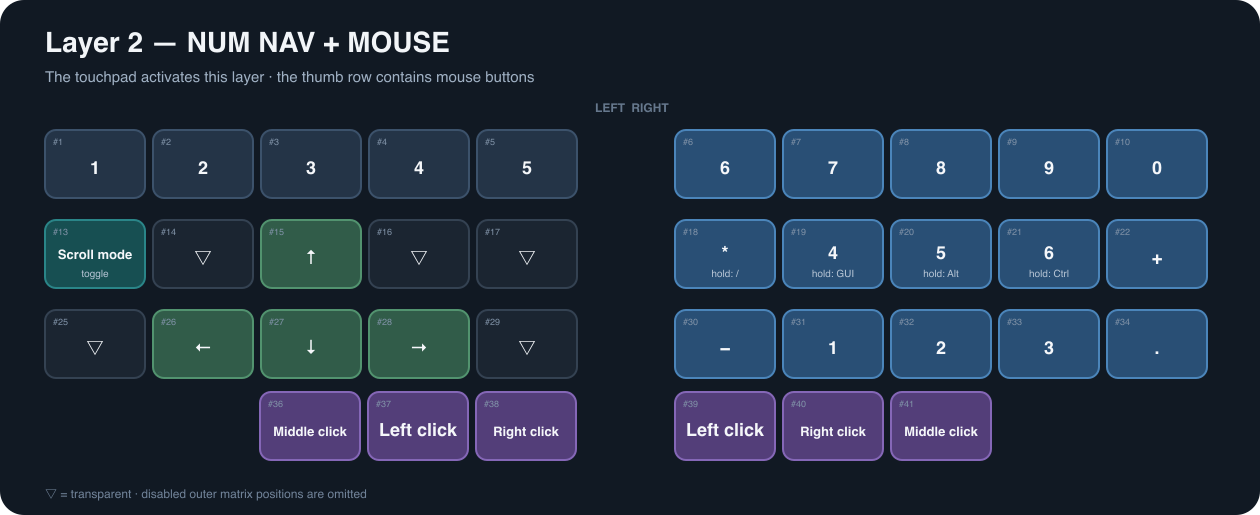
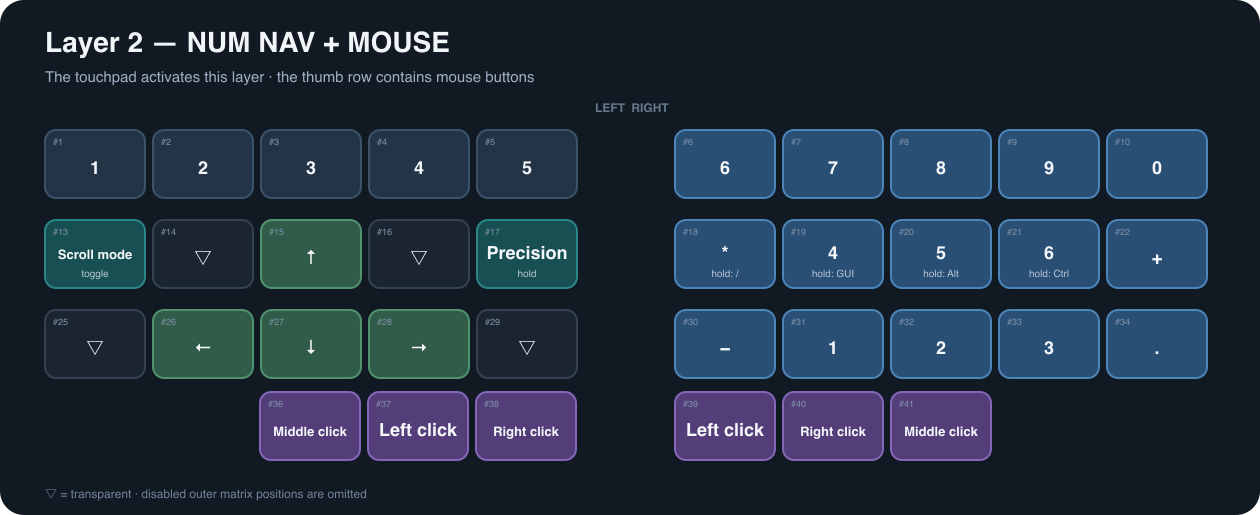
feat(toucan): Add precision pointer mode
Hold Num/Nav key 17 to reduce pointer movement to 40%. Scroll mode remains the higher-priority input mode.

Changed region(s): [[0.3714, 0.4039, 0.4643, 0.5592]]

diff --git a/docs/keymap/generate_keymap_images.py b/docs/keymap/generate_keymap_images.py
@@ -53,7 +53,7 @@ LAYERS = {
         "keys": [
             none, k("1"), k("2"), k("3"), k("4"), k("5"),
             k("6", kind="numpad"), k("7", kind="numpad"), k("8", kind="numpad"), k("9", kind="numpad"), k("0", kind="numpad"), none,
-            none, k("Scroll mode", "toggle", "layer"), k("▽", kind="transparent"), k("↑", kind="nav"), k("▽", kind="transparent"), k("▽", kind="transparent"),
+            none, k("Scroll mode", "toggle", "layer"), k("▽", kind="transparent"), k("↑", kind="nav"), k("▽", kind="transparent"), k("Precision", "hold", "layer"),
             k("*", "hold: /", "numpad"), k("4", "hold: GUI", "numpad"), k("5", "hold: Alt", "numpad"), k("6", "hold: Ctrl", "numpad"), k("+", kind="numpad"), none,
             none, k("▽", kind="transparent"), k("←", kind="nav"), k("↓", kind="nav"), k("→", kind="nav"), k("▽", kind="transparent"),
             k("−", kind="numpad"), k("1", kind="numpad"), k("2", kind="numpad"), k("3", kind="numpad"), k(".", kind="numpad"), none,
